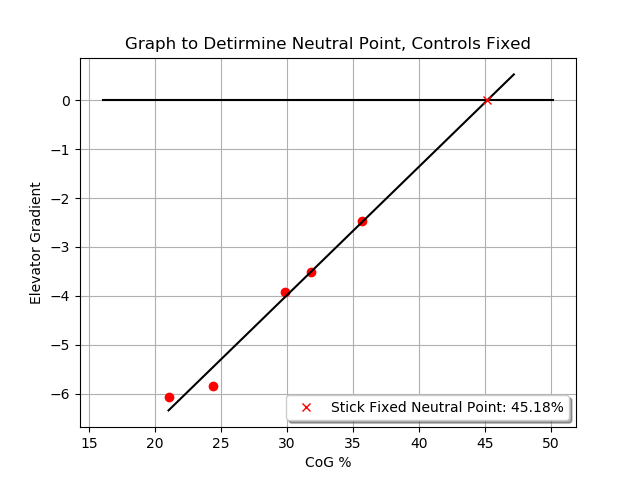
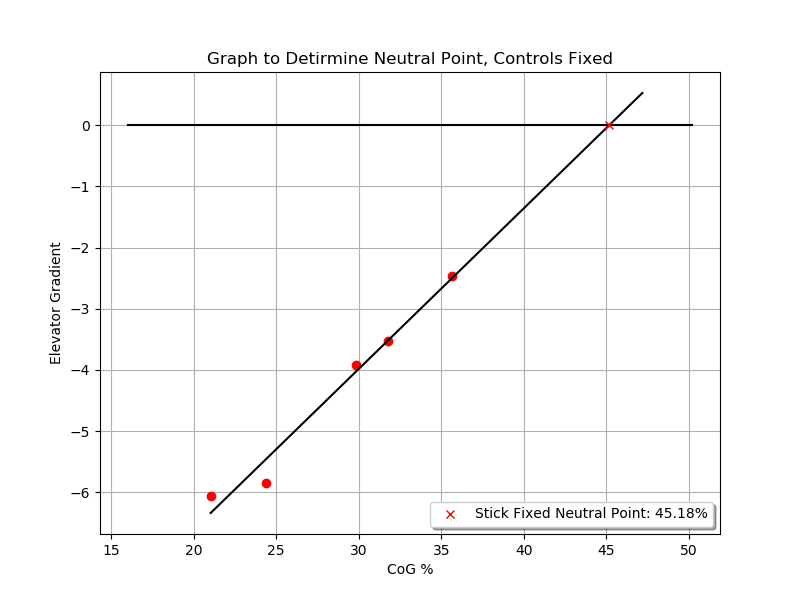
Add README, change graphing sizes etc.

diff --git a/main.py b/main.py
@@ -78,7 +78,7 @@ def plot_neutral(masses_list, data_list, ignore=None):
     max_c_l = []
     gradient_record = []
     cog_list = []
-    plt.figure()
+    plt.figure(figsize=(10, 7))
     for data_id, masses in enumerate(masses_list):
         data = data_list[data_id]
         c_l = []
@@ -102,9 +102,9 @@ def plot_neutral(masses_list, data_list, ignore=None):
     plt.legend(loc='lower left', shadow=True)
     plt.grid(True)
     plt.title("Static Stability, Controls Fixed")
-    plt.savefig('/graphs/staticstability.png')
+    plt.savefig('graphs/staticstability.png')
 
-    plt.figure()
+    plt.figure(figsize=(8, 6))
     plt.plot(cog_list, gradient_record, 'ro')
     z1 = np.polyfit(cog_list, gradient_record, 1)
     lobf1 = np.poly1d(z1)
@@ -119,7 +119,7 @@ def plot_neutral(masses_list, data_list, ignore=None):
     plt.legend(loc='lower right', shadow=True)
     plt.grid(True)
     plt.title("Graph to Detirmine Neutral Point, Controls Fixed")
-    plt.savefig('/graphs/neutralpointStatic.png')
+    plt.savefig('graphs/neutralpointStatic.png')
     plt.show()
 
 

diff --git a/README.md b/README.md
@@ -1,0 +1,9 @@
+# Flight Lab Test
+This is my calculation scripts for a flight test I conducted. The graphs below update to show the latest progress and values.
+
+## Graphs
+These graphs automatically update to show the latest versions pushed to this repository.
+
+
+![Static Stability](graphs/staticstability.png?raw=true "Static Stability")
+![Neutral Point](graphs/neutralpointStatic.png?raw=true "Neutral Point")
